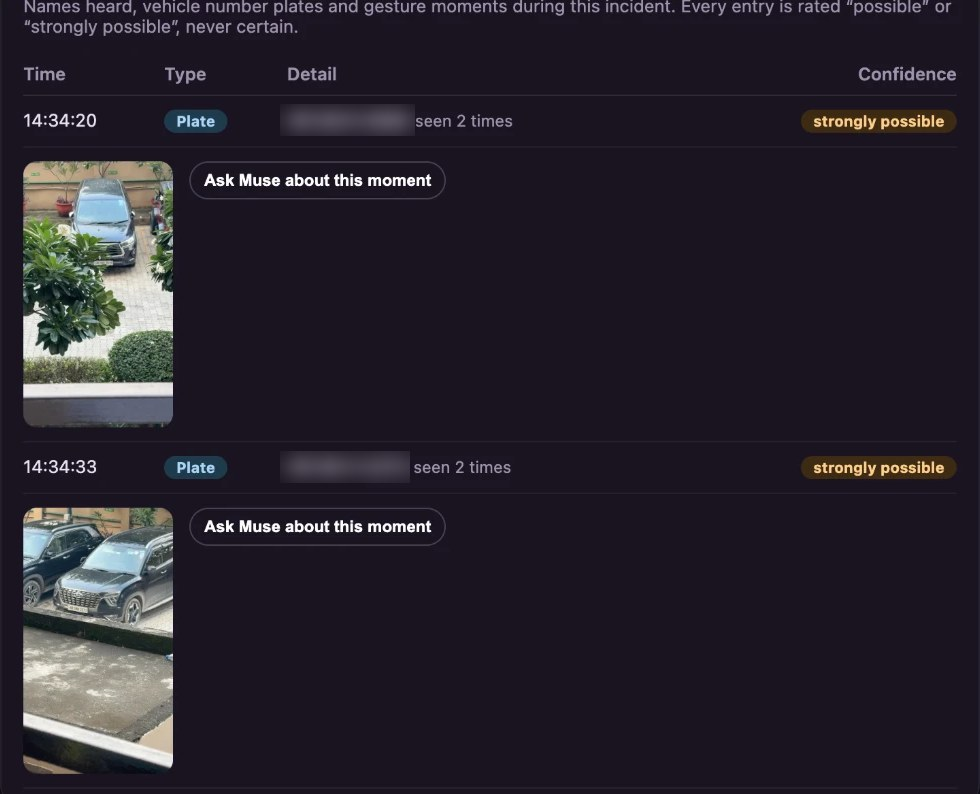
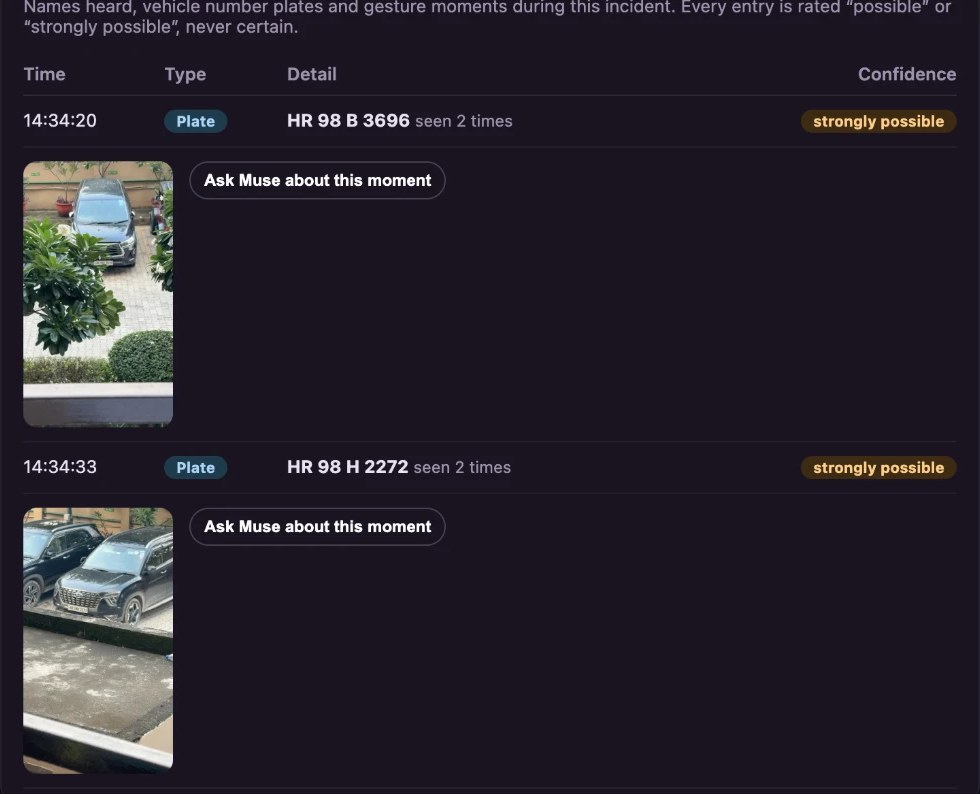
Show the plates from the real capture in full

Changed region(s): [[0.2755, 0.1209, 0.4286, 0.1814], [0.2755, 0.5441, 0.4286, 0.6045]]

diff --git a/README.md b/README.md
@@ -132,7 +132,7 @@ A recording tells a guardian what happened. The evidence log tells them who and 
 <td width="400" valign="top"><img src="docs/images/guardian-plates.jpg" width="380" alt="Evidence log with two number plates read from parked cars, each with the frame it was read from"></td>
 <td valign="top">
 
-**A real capture.** Pointed at parked cars across a courtyard, the phone read two plates on its own. Each is "strongly possible" because it was read twice, at least a second apart, and each keeps the exact frame it was read from, with an **Ask Muse about this moment** button beside it. The plate numbers are blurred here to protect the cars' owners; a guardian sees them in full.
+**A real capture.** Pointed at two parked cars across a courtyard, the phone read both number plates on its own, with no one typing anything. Each is "strongly possible" because it was read twice, at least a second apart, and each keeps the exact frame it was read from, with an **Ask Muse about this moment** button beside it. These are the team's own vehicles. A character can still be misread, which is why a plate is only ever rated "possible" or "strongly possible".
 
 </td>
 </tr>
